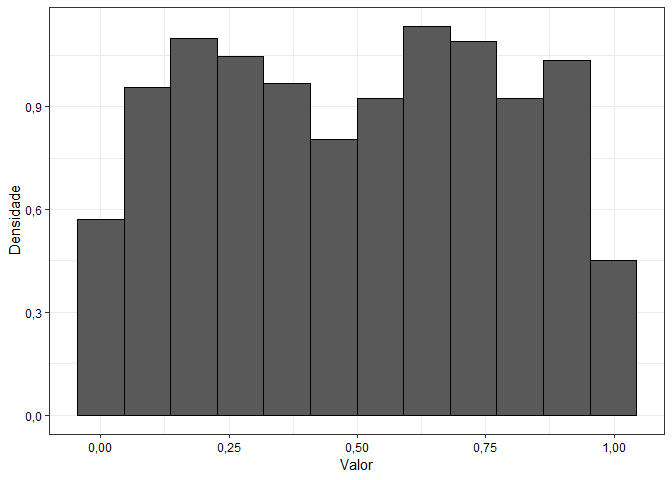
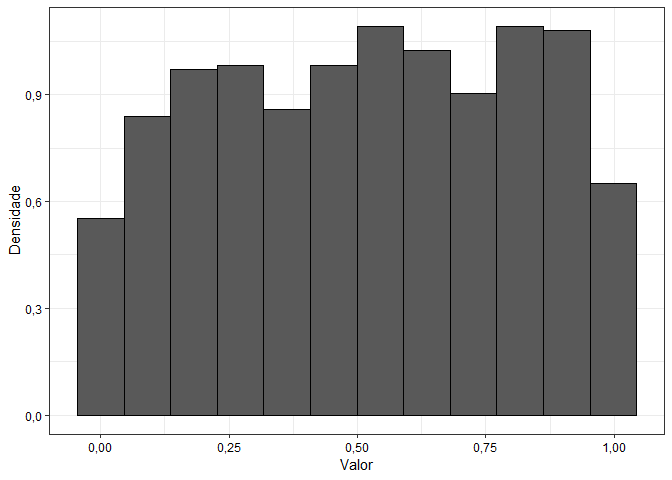
18/04/2019

diff --git a/Tarefa0/Script_Tarefa0.html b/Tarefa0/Script_Tarefa0.html
@@ -483,7 +483,7 @@ seq(-5, 5, 0.1) %&gt;%
   labs(x = &quot;Valor&quot;, y = &quot;Densidade&quot;) +
   scale_y_continuous(label = formato_real_graf) +
   scale_x_continuous(label = formato_real_graf)</code></pre>
[2 lines of base64/hex data omitted]
 </div>
 <div id="questao-2.2" class="section level3">
 <h3>Questão 2.2</h3>
@@ -512,10 +512,10 @@ Variância
 <tbody>
 <tr>
 <td style="text-align:center;color: black !important;background-color: white !important;">
-0,321
+0,292
 </td>
 <td style="text-align:center;color: black !important;background-color: white !important;">
-0,218
+0,207
 </td>
 </tr>
 </tbody>
@@ -548,10 +548,10 @@ Variância
 <tbody>
 <tr>
 <td style="text-align:center;color: black !important;background-color: white !important;">
-0,800
+0,300
 </td>
 <td style="text-align:center;color: black !important;background-color: white !important;">
-0,178
+0,233
 </td>
 </tr>
 </tbody>
@@ -584,10 +584,10 @@ Variância
 <tbody>
 <tr>
 <td style="text-align:center;color: black !important;background-color: white !important;">
--0,053
+-0,012
 </td>
 <td style="text-align:center;color: black !important;background-color: white !important;">
-0,989
+1,028
 </td>
 </tr>
 </tbody>
@@ -632,68 +632,68 @@ Probabilidade (em %)
 <tbody>
 <tr>
 <td style="text-align:center;color: black !important;background-color: white !important;">
-0.1606136
+-0.0237661
 </td>
 <td style="text-align:center;color: black !important;background-color: white !important;">
-0.1052284
+0.0684591
 </td>
 <td style="text-align:center;color: black !important;background-color: white !important;">
-10,52%
-</td>
-</tr>
-<tr>
-<td style="text-align:center;color: black !important;background-color: white !important;">
--0.2712483
-</td>
-<td style="text-align:center;color: black !important;background-color: white !important;">
-0.0376269
-</td>
-<td style="text-align:center;color: black !important;background-color: white !important;">
-3,76%
+6,85%
 </td>
 </tr>
 <tr>
 <td style="text-align:center;color: black !important;background-color: white !important;">
-1.6340013
+-0.2734288
 </td>
 <td style="text-align:center;color: black !important;background-color: white !important;">
-0.8343400
+0.0374261
 </td>
 <td style="text-align:center;color: black !important;background-color: white !important;">
-83,43%
-</td>
-</tr>
-<tr>
-<td style="text-align:center;color: black !important;background-color: white !important;">
--0.9435532
-</td>
-<td style="text-align:center;color: black !important;background-color: white !important;">
-0.0069914
-</td>
-<td style="text-align:center;color: black !important;background-color: white !important;">
-0,70%
+3,74%
 </td>
 </tr>
 <tr>
 <td style="text-align:center;color: black !important;background-color: white !important;">
-1.2895835
+-1.3490843
 </td>
 <td style="text-align:center;color: black !important;background-color: white !important;">
-0.6766542
+0.0024970
 </td>
 <td style="text-align:center;color: black !important;background-color: white !important;">
-67,67%
+0,25%
 </td>
 </tr>
 <tr>
 <td style="text-align:center;color: black !important;background-color: white !important;">
--0.6689036
+-0.3253482
 </td>
 <td style="text-align:center;color: black !important;background-color: white !important;">
-0.0139848
+0.0329379
 </td>
 <td style="text-align:center;color: black !important;background-color: white !important;">
-1,40%
+3,29%
+</td>
+</tr>
+<tr>
+<td style="text-align:center;color: black !important;background-color: white !important;">
+-0.1888256
+</td>
+<td style="text-align:center;color: black !important;background-color: white !important;">
+0.0460227
+</td>
+<td style="text-align:center;color: black !important;background-color: white !important;">
+4,60%
+</td>
+</tr>
+<tr>
+<td style="text-align:center;color: black !important;background-color: white !important;">
+-1.4463965
+</td>
+<td style="text-align:center;color: black !important;background-color: white !important;">
+0.0019493
+</td>
+<td style="text-align:center;color: black !important;background-color: white !important;">
+0,19%
 </td>
 </tr>
 </tbody>

diff --git a/Tarefa0/Script_Tarefa0.md b/Tarefa0/Script_Tarefa0.md
@@ -1,7 +1,7 @@
 ---
 output:
-   html_document:
-     keep_md: TRUE
+  html_document:
+    keep_md: TRUE
 ---
 
 
@@ -467,8 +467,8 @@ rbinom(n = 1000, size = 1, prob = 0.3) %>%
  </thead>
 <tbody>
   <tr>
-   <td style="text-align:center;color: black !important;background-color: white !important;"> 0,321 </td>
-   <td style="text-align:center;color: black !important;background-color: white !important;"> 0,218 </td>
+   <td style="text-align:center;color: black !important;background-color: white !important;"> 0,292 </td>
+   <td style="text-align:center;color: black !important;background-color: white !important;"> 0,207 </td>
   </tr>
 </tbody>
 </table>
@@ -500,8 +500,8 @@ rbinom(n = 10, size = 1, prob = 0.5) %>%
  </thead>
 <tbody>
   <tr>
-   <td style="text-align:center;color: black !important;background-color: white !important;"> 0,800 </td>
-   <td style="text-align:center;color: black !important;background-color: white !important;"> 0,178 </td>
+   <td style="text-align:center;color: black !important;background-color: white !important;"> 0,300 </td>
+   <td style="text-align:center;color: black !important;background-color: white !important;"> 0,233 </td>
   </tr>
 </tbody>
 </table>
@@ -533,8 +533,8 @@ rnorm(n = 1000) %>%
  </thead>
 <tbody>
   <tr>
-   <td style="text-align:center;color: black !important;background-color: white !important;"> -0,053 </td>
-   <td style="text-align:center;color: black !important;background-color: white !important;"> 0,989 </td>
+   <td style="text-align:center;color: black !important;background-color: white !important;"> -0,012 </td>
+   <td style="text-align:center;color: black !important;background-color: white !important;"> 1,028 </td>
   </tr>
 </tbody>
 </table>
@@ -580,34 +580,34 @@ rnorm(n = 1000, mean = 0, sd = 1) %>%
  </thead>
 <tbody>
   <tr>
-   <td style="text-align:center;color: black !important;background-color: white !important;"> 0.1606136 </td>
-   <td style="text-align:center;color: black !important;background-color: white !important;"> 0.1052284 </td>
-   <td style="text-align:center;color: black !important;background-color: white !important;"> 10,52% </td>
+   <td style="text-align:center;color: black !important;background-color: white !important;"> -0.0237661 </td>
+   <td style="text-align:center;color: black !important;background-color: white !important;"> 0.0684591 </td>
+   <td style="text-align:center;color: black !important;background-color: white !important;"> 6,85% </td>
   </tr>
   <tr>
-   <td style="text-align:center;color: black !important;background-color: white !important;"> -0.2712483 </td>
-   <td style="text-align:center;color: black !important;background-color: white !important;"> 0.0376269 </td>
-   <td style="text-align:center;color: black !important;background-color: white !important;"> 3,76% </td>
+   <td style="text-align:center;color: black !important;background-color: white !important;"> -0.2734288 </td>
+   <td style="text-align:center;color: black !important;background-color: white !important;"> 0.0374261 </td>
+   <td style="text-align:center;color: black !important;background-color: white !important;"> 3,74% </td>
   </tr>
   <tr>
-   <td style="text-align:center;color: black !important;background-color: white !important;"> 1.6340013 </td>
-   <td style="text-align:center;color: black !important;background-color: white !important;"> 0.8343400 </td>
-   <td style="text-align:center;color: black !important;background-color: white !important;"> 83,43% </td>
+   <td style="text-align:center;color: black !important;background-color: white !important;"> -1.3490843 </td>
+   <td style="text-align:center;color: black !important;background-color: white !important;"> 0.0024970 </td>
+   <td style="text-align:center;color: black !important;background-color: white !important;"> 0,25% </td>
   </tr>
   <tr>
-   <td style="text-align:center;color: black !important;background-color: white !important;"> -0.9435532 </td>
-   <td style="text-align:center;color: black !important;background-color: white !important;"> 0.0069914 </td>
-   <td style="text-align:center;color: black !important;background-color: white !important;"> 0,70% </td>
+   <td style="text-align:center;color: black !important;background-color: white !important;"> -0.3253482 </td>
+   <td style="text-align:center;color: black !important;background-color: white !important;"> 0.0329379 </td>
+   <td style="text-align:center;color: black !important;background-color: white !important;"> 3,29% </td>
   </tr>
   <tr>
-   <td style="text-align:center;color: black !important;background-color: white !important;"> 1.2895835 </td>
-   <td style="text-align:center;color: black !important;background-color: white !important;"> 0.6766542 </td>
-   <td style="text-align:center;color: black !important;background-color: white !important;"> 67,67% </td>
+   <td style="text-align:center;color: black !important;background-color: white !important;"> -0.1888256 </td>
+   <td style="text-align:center;color: black !important;background-color: white !important;"> 0.0460227 </td>
+   <td style="text-align:center;color: black !important;background-color: white !important;"> 4,60% </td>
   </tr>
   <tr>
-   <td style="text-align:center;color: black !important;background-color: white !important;"> -0.6689036 </td>
-   <td style="text-align:center;color: black !important;background-color: white !important;"> 0.0139848 </td>
-   <td style="text-align:center;color: black !important;background-color: white !important;"> 1,40% </td>
+   <td style="text-align:center;color: black !important;background-color: white !important;"> -1.4463965 </td>
+   <td style="text-align:center;color: black !important;background-color: white !important;"> 0.0019493 </td>
+   <td style="text-align:center;color: black !important;background-color: white !important;"> 0,19% </td>
   </tr>
 </tbody>
 </table>
